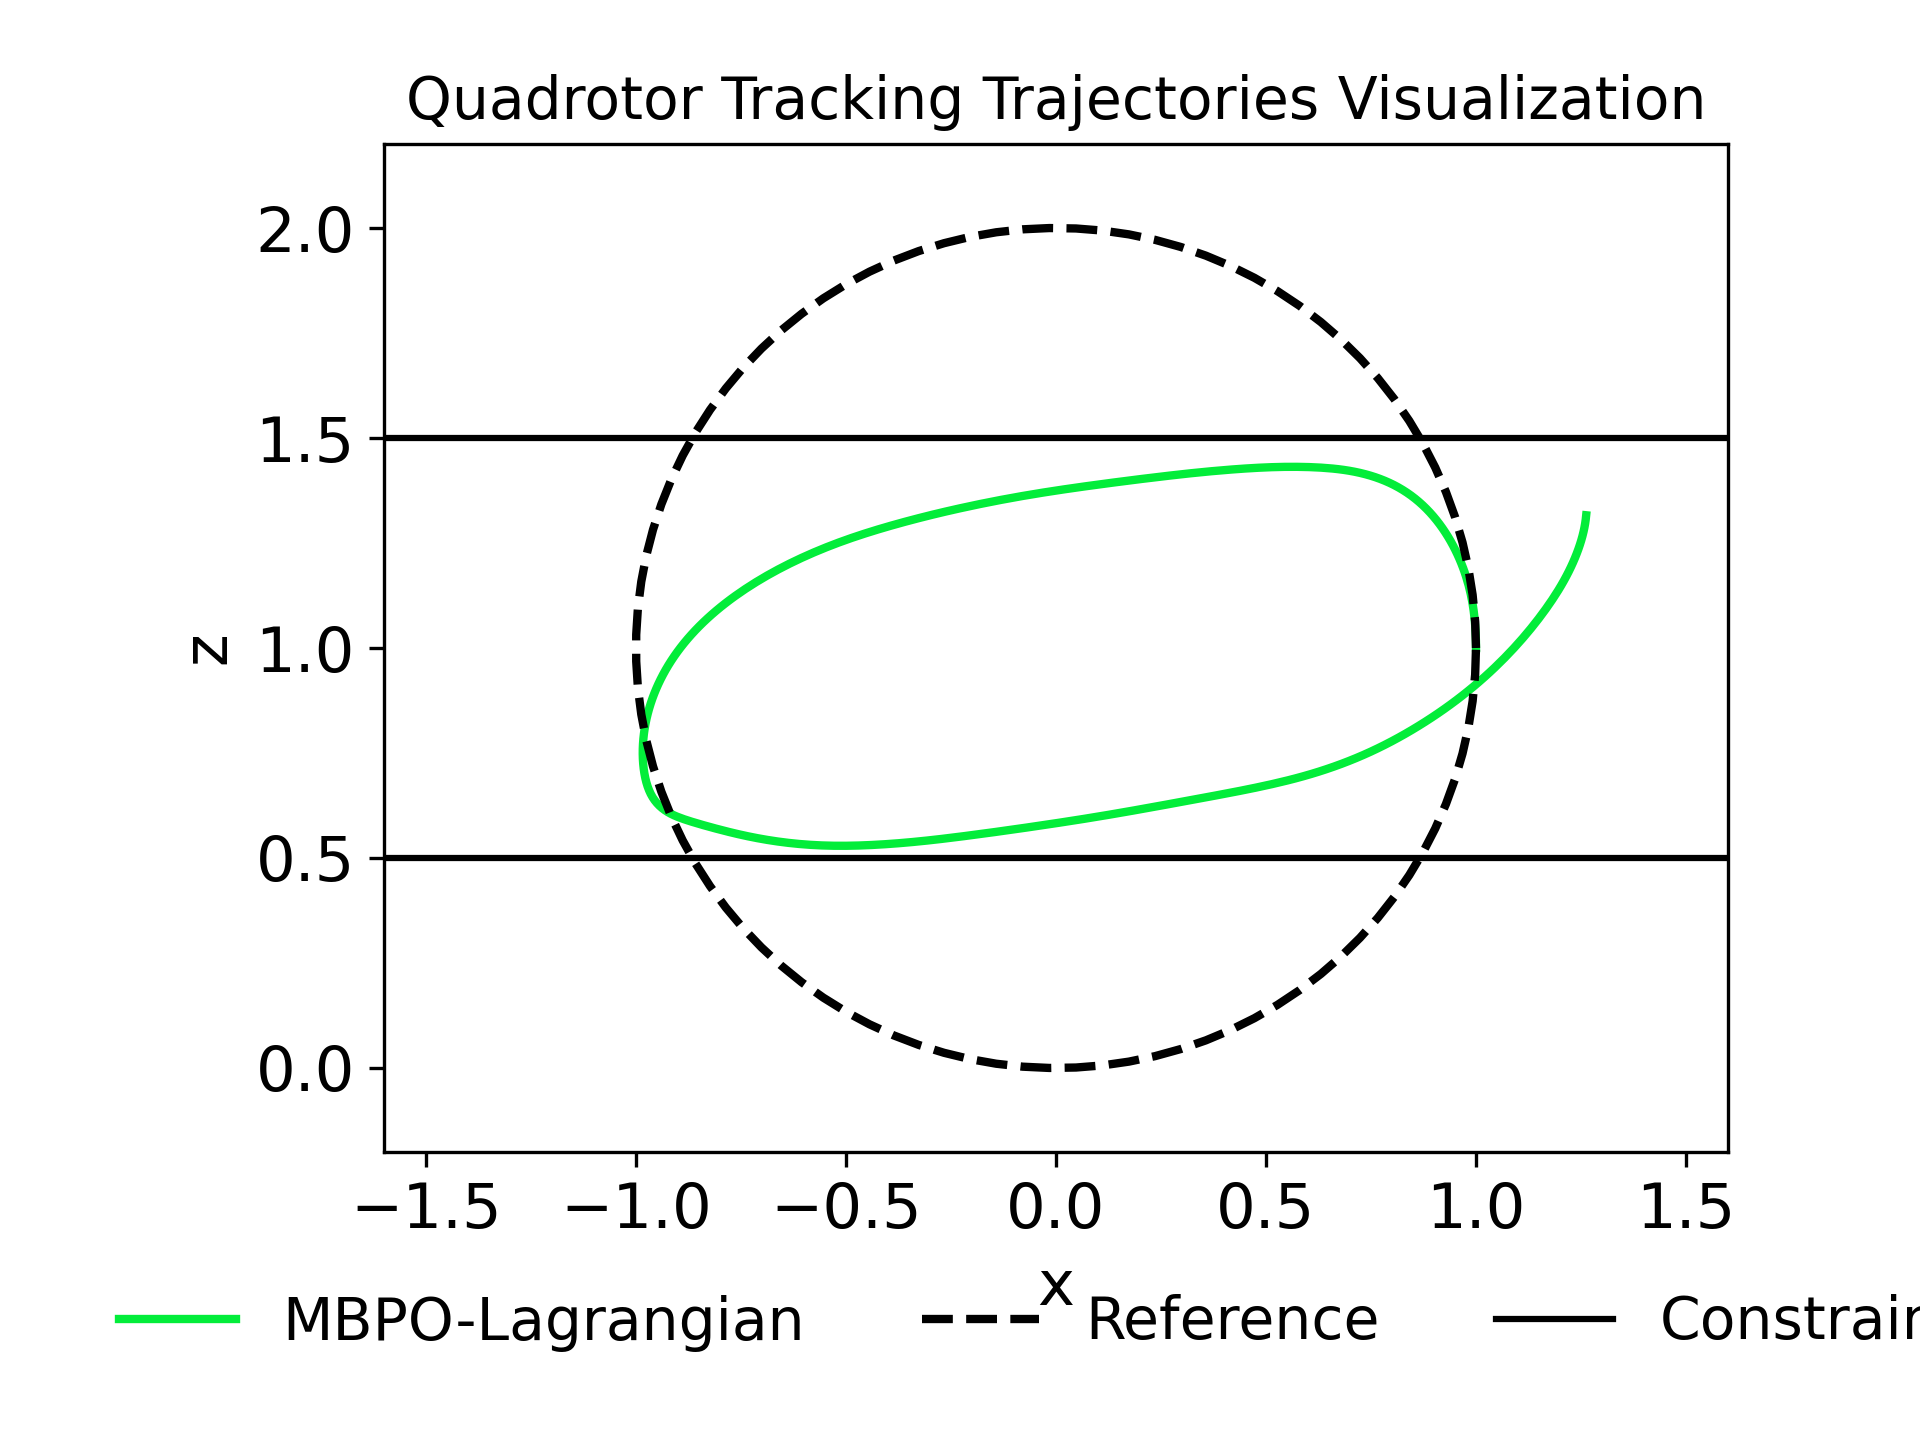
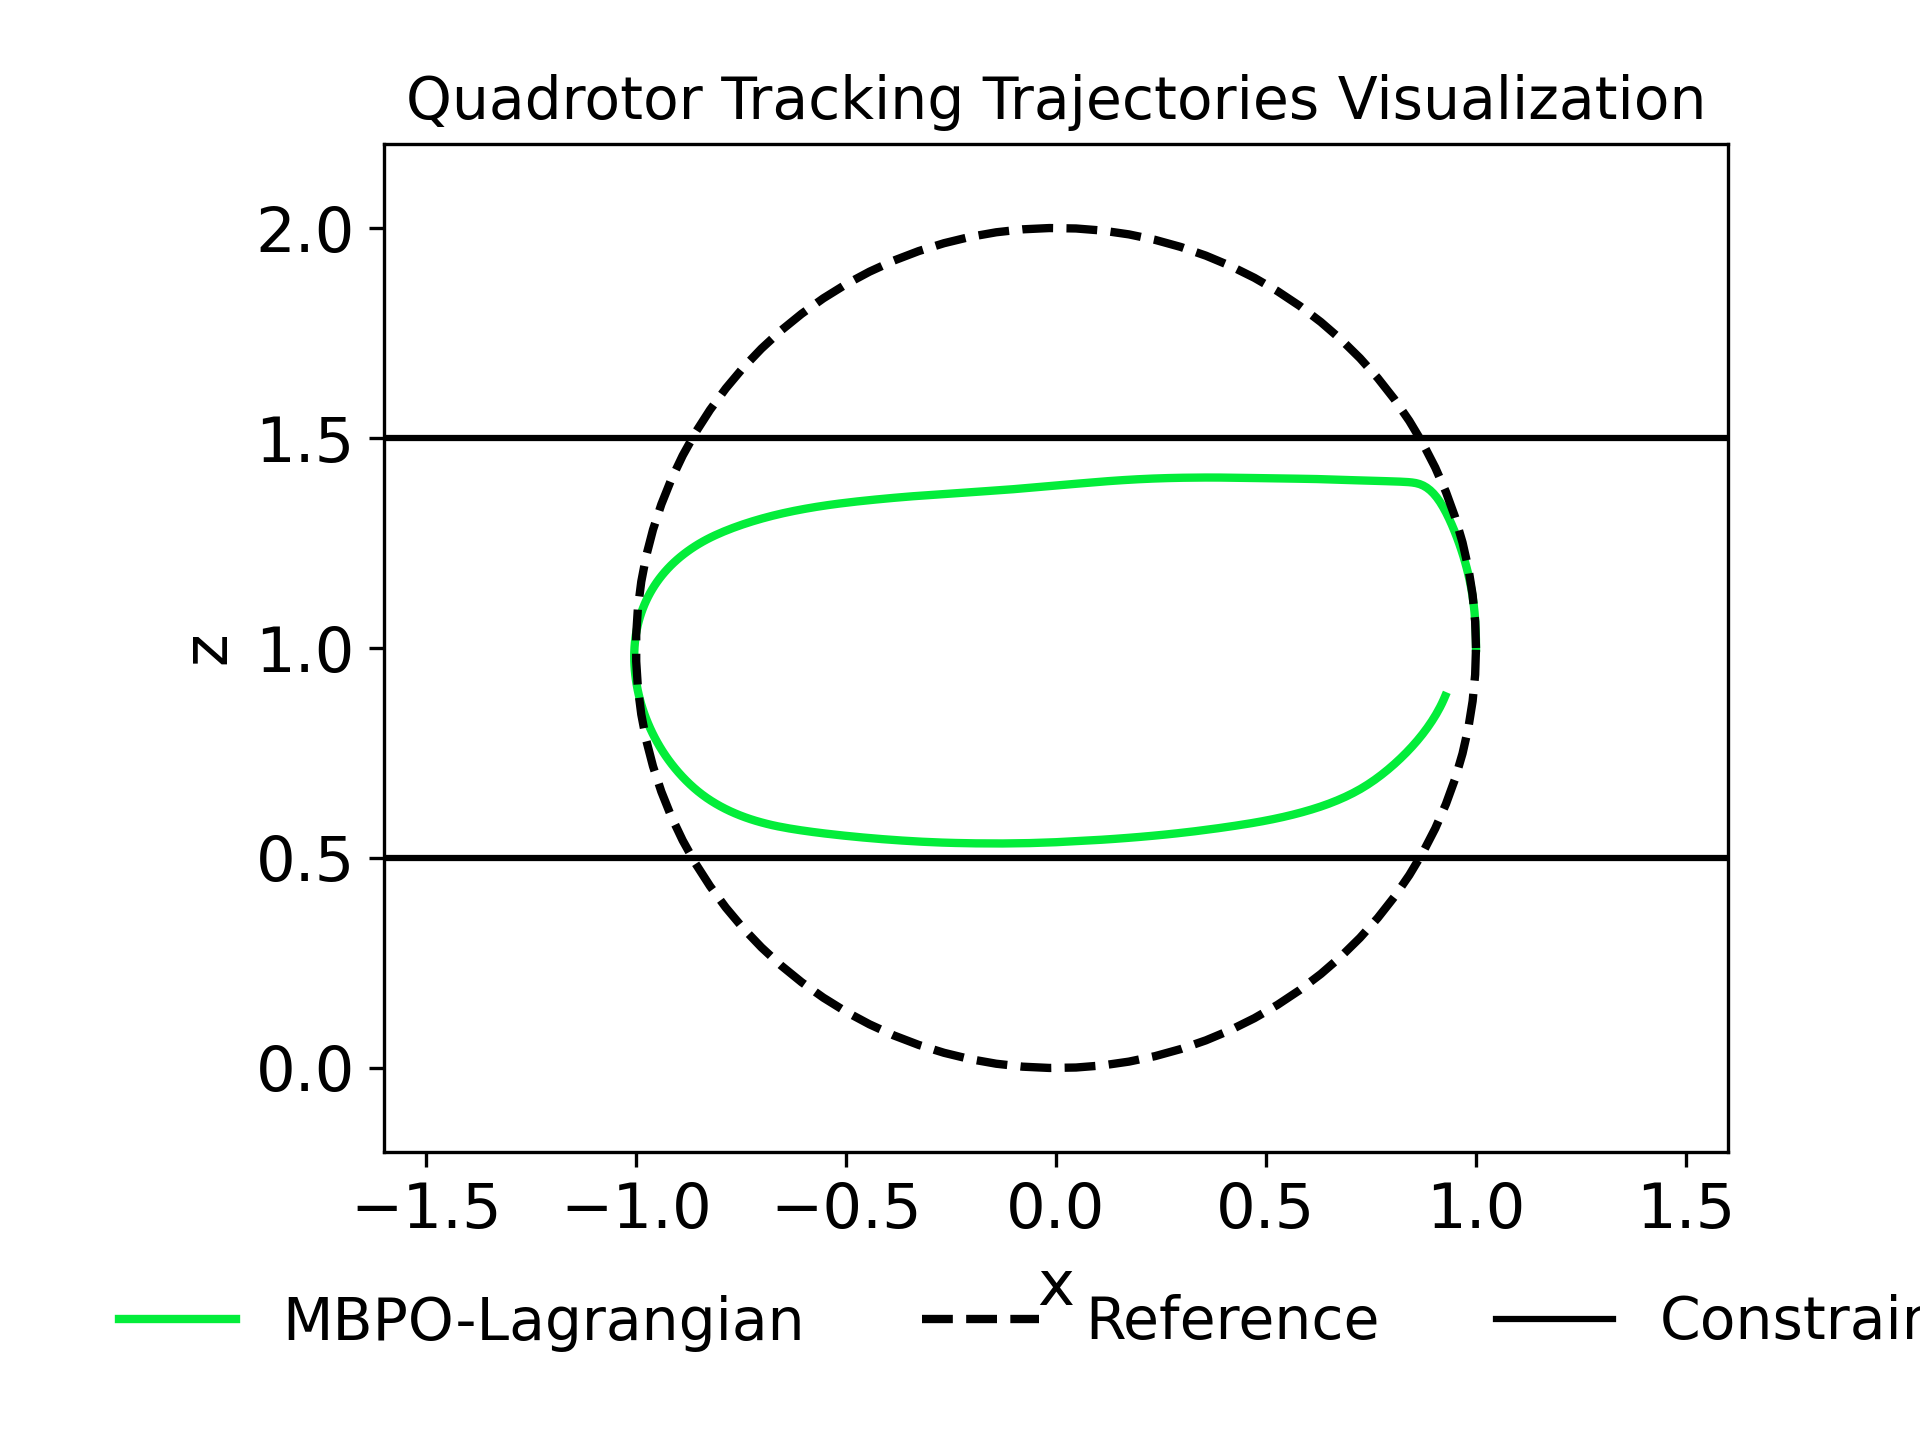
fixed lam

diff --git a/src/viz_quadrotor/viz_trj.py b/src/viz_quadrotor/viz_trj.py
@@ -80,7 +80,7 @@ if __name__ == '__main__':
     # MBPO-L
     trj_MBPO = plt_trajectory(
         ax, 'MBPO-Lagrangian',
-        LOGS_DIR / '06-21-22_10.08.36_hiwc' / 'test-2022-06-21-13-16-24'
+        LOGS_DIR / '06-22-22_00.32.40_zcsg' / 'test-2022-06-22-09-06-42'
     )
 
     # Plot constraint and ref

diff --git a/src/defaults.py b/src/defaults.py
@@ -7,4 +7,4 @@ ACTOR_LR = 1e-4
 CRITIC_LR = 1e-3
 
 # ROOT_DIR = None    # set a path (directory) where experiments should be saved
-ROOT_DIR = '/home/zouwj20/git_code/Safe-MBRL'
+ROOT_DIR = '/home/yudongjie/zwj_projects/Safe_MBRL'
